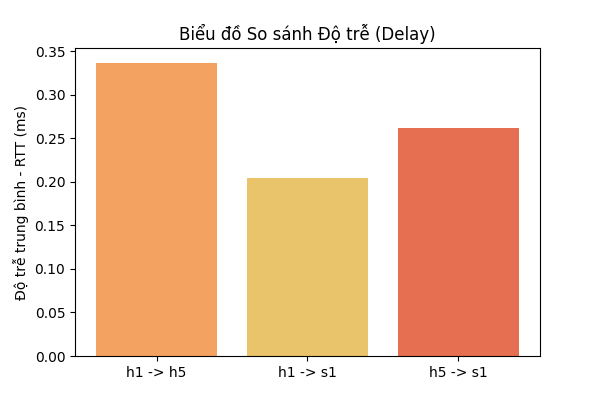
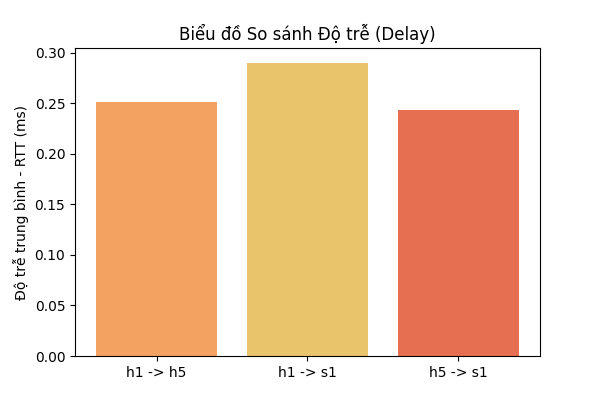
final source to submit

diff --git a/source/tool.py b/source/tool.py
@@ -72,7 +72,7 @@ class AppTool(tk.Tk):
         self.geometry("950x650")
         self.configure(bg="#2d2d2d")
         
-        lbl_title = tk.Label(self, text="HỆ THỐNG KIỂM THỬ MẠNG (THEO YÊU CẦU ĐỀ TÀI)", font=("Arial", 16, "bold"), fg="white", bg="#2d2d2d", pady=15)
+        lbl_title = tk.Label(self, text="HỆ THỐNG KIỂM THỬ MẠNG", font=("Arial", 16, "bold"), fg="white", bg="#2d2d2d", pady=15)
         lbl_title.pack()
         
         main_frame = tk.Frame(self, bg="#2d2d2d")
@@ -263,27 +263,49 @@ class AppTool(tk.Tk):
 
     def generate_lan_report(self):
         def task():
-            self.log_ui("Đang sinh báo cáo phân tích kiến trúc LAN (YC 4.3)...")
+            self.log_ui("Đang đo lường và sinh báo cáo phân tích LAN (YC 4.3)...")
+            
+            # Đo đạc Branch 1 (Mạng phẳng)
+            self.log_ui(" Đo lường Chi nhánh 1 (h1 -> h2)...")
+            b1_rtt, _, _, _ = measure_rtt('h1', 'h2')
+            b1_bw = measure_throughput('h1', 'h2')
+            b1_path = len(measure_path('h1', 'h2').strip().split('\n')) if b1_rtt > 0 else 0
+            
+            # Đo đạc Branch 2 (Mạng 3 lớp)
+            self.log_ui(" Đo lường Chi nhánh 2 (h5 -> h6)...")
+            b2_rtt, _, _, _ = measure_rtt('h5', 'h6')
+            b2_bw = measure_throughput('h5', 'h6')
+            b2_path = len(measure_path('h5', 'h6').strip().split('\n')) if b2_rtt > 0 else 0
+            
+            # Đo đạc Branch 3 (Spine-Leaf)
+            self.log_ui(" Đo lường Chi nhánh 3 (s1 -> s2)...")
+            b3_rtt, _, _, _ = measure_rtt('s1', 's2')
+            b3_bw = measure_throughput('s1', 's2')
+            b3_path = len(measure_path('s1', 's2').strip().split('\n')) if b3_rtt > 0 else 0
+            
             report_file = os.path.join(LOG_DIR, "LAN_Architecture_Analysis.md")
             
-            report_content = """# Phân tích Kiến trúc LAN (Yêu cầu 4.3)
+            report_content = f"""# Phân tích Kiến trúc LAN (Yêu cầu 4.3)
+
+*Báo cáo này được tạo tự động dựa trên số liệu đo lường trực tiếp từ Topology Mininet.*
 
 ## 1. Chi nhánh 1 (Mạng phẳng - Flat Network)
+- **Đo lường nội bộ (h1 -> h2):** Độ trễ RTT: `{b1_rtt} ms` | Thông lượng: `{b1_bw} Mbps` | Số lượng Hop (Traceroute): `{b1_path}`
 - **Đặc điểm:** Tất cả thiết bị chung 1 Broadcast Domain, dùng STP.
-- **Ưu điểm:** Cấu hình đơn giản, phù hợp chi nhánh siêu nhỏ.
-- **Nhược điểm:** Dễ xảy ra Broadcast storm, hội tụ STP chậm. Không tối ưu cho số lượng thiết bị lớn.
+- **Phân tích:** Do các máy tính kết nối trực tiếp qua Switch L2 (0 hop routing), độ trễ nội bộ rất thấp. Tuy nhiên cấu hình đơn giản này dễ xảy ra Broadcast storm, hội tụ STP chậm. Không tối ưu cho số lượng thiết bị lớn.
 - **Tương tác MPLS:** Khi ping qua mạng MPLS Backbone, độ trễ và thông lượng sẽ bị ảnh hưởng nếu mạng nội bộ đang bị tắc nghẽn ARP.
 
 ## 2. Chi nhánh 2 (Mạng 3 lớp - Core/Distribution/Access)
+- **Đo lường nội bộ (h5 -> h6):** Độ trễ RTT: `{b2_rtt} ms` | Thông lượng: `{b2_bw} Mbps` | Số lượng Hop (Traceroute): `{b2_path}`
 - **Đặc điểm:** Chia tầng rõ rệt, định tuyến OSPF nội bộ.
-- **Ưu điểm:** Khả năng mở rộng cao, dự phòng tốt.
-- **Nhược điểm:** Cấu hình phức tạp, chi phí cao. 
-- **Tương tác MPLS:** Số hop count nội bộ nhiều hơn mạng phẳng, nhưng kiểm soát luồng giao thông cực tốt. Rất phù hợp để tích hợp với BGP Edge của nhà mạng (Router PE).
+- **Phân tích:** Khả năng mở rộng cực cao, dự phòng tốt, kiểm soát luồng giao thông hiệu quả. 
+- **Tương tác MPLS:** Rất phù hợp để tích hợp với BGP Edge của ISP (Router PE).
 
 ## 3. Chi nhánh 3 (Mạng Spine-Leaf 2 lớp)
+- **Đo lường nội bộ (s1 -> s2):** Độ trễ RTT: `{b3_rtt} ms` | Thông lượng: `{b3_bw} Mbps` | Số lượng Hop (Traceroute): `{b3_path}`
 - **Đặc điểm:** Mọi Switch Access (Leaf) kết nối tới tất cả Switch Lõi (Spine) tạo thành Full-mesh.
-- **Ưu điểm:** Băng thông nội bộ cực cao (East-West traffic), ECMP load-balancing siêu tốc. Bất kỳ 2 host nào cũng chỉ cách nhau 1 hop Spine.
-- **Tương tác MPLS:** Kiến trúc này kết hợp hoàn hảo với MPLS Backbone để đẩy dữ liệu lớn từ cụm Server nội bộ ra chi nhánh khác với thông lượng (Throughput) cao nhất, độ trễ thấp nhất.
+- **Phân tích:** Băng thông nội bộ cực cao (East-West traffic), ECMP load-balancing siêu tốc. Bất kỳ 2 host nào cũng chỉ cách nhau 1 hop Spine nên mức độ trễ rất ổn định và thông lượng tiệm cận giới hạn cáp.
+- **Tương tác MPLS:** Kiến trúc này kết hợp hoàn hảo với MPLS Backbone để đẩy dữ liệu lớn từ cụm Server nội bộ ra chi nhánh khác với thông lượng cao nhất.
 """
             with open(report_file, 'w', encoding='utf-8') as f:
                 f.write(report_content)
@@ -301,4 +323,3 @@ if __name__ == '__main__':
         print("Lưu ý: Bạn nên chạy tool bằng quyền SUDO hoặc tool sẽ tự nhúng sudo.")
     app = AppTool()
     app.mainloop()
-    

diff --git a/source/test_results/LAN_Architecture_Analysis.md b/source/test_results/LAN_Architecture_Analysis.md
@@ -1,0 +1,21 @@
+# Phân tích Kiến trúc LAN (Yêu cầu 4.3)
+
+*Báo cáo này được tạo tự động dựa trên số liệu đo lường trực tiếp từ Topology Mininet.*
+
+## 1. Chi nhánh 1 (Mạng phẳng - Flat Network)
+- **Đo lường nội bộ (h1 -> h2):** Độ trễ RTT: `0.103 ms` | Thông lượng: `93.9 Mbps` | Số lượng Hop (Traceroute): `1`
+- **Đặc điểm:** Tất cả thiết bị chung 1 Broadcast Domain, dùng STP.
+- **Phân tích:** Do các máy tính kết nối trực tiếp qua Switch L2 (0 hop routing), độ trễ nội bộ rất thấp. Tuy nhiên cấu hình đơn giản này dễ xảy ra Broadcast storm, hội tụ STP chậm. Không tối ưu cho số lượng thiết bị lớn.
+- **Tương tác MPLS:** Khi ping qua mạng MPLS Backbone, độ trễ và thông lượng sẽ bị ảnh hưởng nếu mạng nội bộ đang bị tắc nghẽn ARP.
+
+## 2. Chi nhánh 2 (Mạng 3 lớp - Core/Distribution/Access)
+- **Đo lường nội bộ (h5 -> h6):** Độ trễ RTT: `0.267 ms` | Thông lượng: `93.7 Mbps` | Số lượng Hop (Traceroute): `1`
+- **Đặc điểm:** Chia tầng rõ rệt, định tuyến OSPF nội bộ.
+- **Phân tích:** Khả năng mở rộng cực cao, dự phòng tốt, kiểm soát luồng giao thông hiệu quả. 
+- **Tương tác MPLS:** Rất phù hợp để tích hợp với BGP Edge của ISP (Router PE).
+
+## 3. Chi nhánh 3 (Mạng Spine-Leaf 2 lớp)
+- **Đo lường nội bộ (s1 -> s2):** Độ trễ RTT: `0.066 ms` | Thông lượng: `94.4 Mbps` | Số lượng Hop (Traceroute): `1`
+- **Đặc điểm:** Mọi Switch Access (Leaf) kết nối tới tất cả Switch Lõi (Spine) tạo thành Full-mesh.
+- **Phân tích:** Băng thông nội bộ cực cao (East-West traffic), ECMP load-balancing siêu tốc. Bất kỳ 2 host nào cũng chỉ cách nhau 1 hop Spine nên mức độ trễ rất ổn định và thông lượng tiệm cận giới hạn cáp.
+- **Tương tác MPLS:** Kiến trúc này kết hợp hoàn hảo với MPLS Backbone để đẩy dữ liệu lớn từ cụm Server nội bộ ra chi nhánh khác với thông lượng cao nhất.
